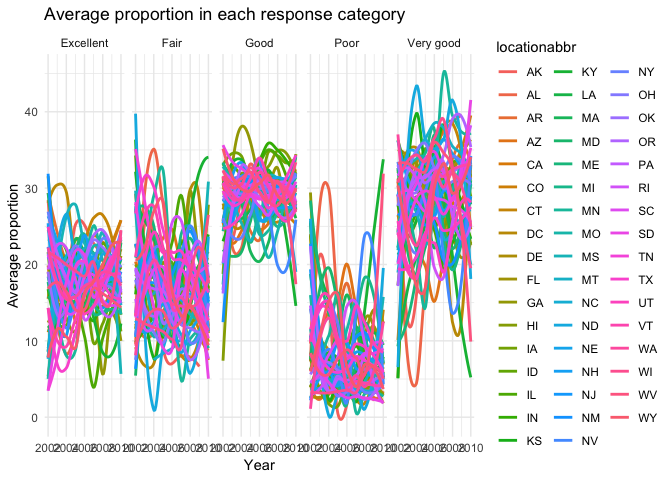
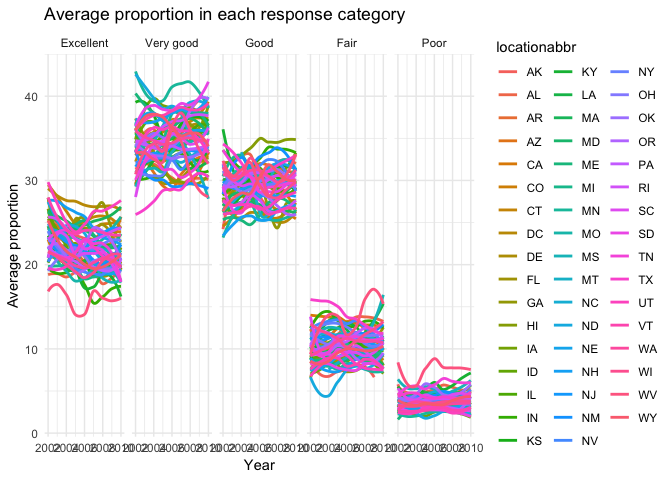
Graph for Problem 2

diff --git a/p8105_hw3_gsl2116.md b/p8105_hw3_gsl2116.md
@@ -9,9 +9,8 @@ Problem 1
 ``` r
 brfss_data = brfss_smart2010 %>% 
   janitor::clean_names() %>% 
-  filter(topic == "Overall Health")
-
-brfss_data$response = factor(c("Excellent", "Very good", "Good", "Fair", "Poor"))
+  filter(topic == "Overall Health") %>% 
+  mutate(response = factor(response, levels = c("Excellent", "Very good", "Good", "Fair", "Poor")))
 ```
 
 **In 2002, which states were observed at 7 locations? **
@@ -20,17 +19,16 @@ brfss_data$response = factor(c("Excellent", "Very good", "Good", "Fair", "Poor")
 brfss_data %>% 
   group_by(year, locationabbr) %>% 
   filter(year == 2002) %>% 
-  summarize(n_locations = n_distinct(locationdesc) == 7) %>% 
-  filter(n_locations == TRUE)
+  summarize(n_locations = n_distinct(locationdesc)) %>% 
+  filter(n_locations == 7) %>% 
+  knitr::kable()
 ```
 
-    ## # A tibble: 3 x 3
-    ## # Groups:   year [1]
-    ##    year locationabbr n_locations
-    ##   <int> <chr>        <lgl>      
-    ## 1  2002 CT           TRUE       
-    ## 2  2002 FL           TRUE       
-    ## 3  2002 NC           TRUE
+|  year| locationabbr |  n\_locations|
+|-----:|:-------------|-------------:|
+|  2002| CT           |             7|
+|  2002| FL           |             7|
+|  2002| NC           |             7|
 
 In 2002, there were 3 states where 7 locations were observed.
 
@@ -40,8 +38,8 @@ In 2002, there were 3 states where 7 locations were observed.
 brfss_data %>%
   group_by(year, locationabbr) %>%
   count(n_locations = n_distinct(locationdesc)) %>% 
-  ggplot(aes(x = year, y = n_locations, color = locationabbr)) + 
-    geom_smooth(se = FALSE, alpha = .5) +
+  ggplot(aes(x = year, y = n_locations)) + 
+    geom_smooth(aes(color = locationabbr), se = FALSE, alpha = .5) +
     labs(
       title = "Number of locations in each state, 2002-2010",
       x = "Year",
@@ -68,11 +66,11 @@ brfss_data %>%
 
 |  year|  mean\_excellent|  sd\_excellent|
 |-----:|----------------:|--------------:|
-|  2002|            26.76|           8.48|
-|  2006|            15.97|          10.03|
-|  2010|            17.30|           8.99|
+|  2002|            24.04|           4.49|
+|  2006|            22.53|           4.00|
+|  2010|            22.70|           3.57|
 
-The mean (standard deviation) of the proportion of “Excellent” responses across locations in NY State was 26.76 (8.48) in 2002, 15.97 (10.03) in 2006, and 17.30 (8.99) in 2010.
+The mean (standard deviation) of the proportion of “Excellent” responses across locations in NY State was 24.04 (4.49) in 2002, 22.53 (4.00) in 2006, and 22.70 (3.57) in 2010.
 
 **Average proportion in each response category, by response and state**
 
@@ -99,6 +97,40 @@ The above graph shows, for each response category, the distribution of state-lev
 Problem 2
 ---------
 
-**Short description of the dataset** This dataset has 1,384,617 observations in 15 variables, with 1384617 rows and 15 columns. There are 21 departments with 134 distinct aisles containing 39123 products. This dataset summarizes the contents of 131209 distinct orders placed.
+**Short description of the dataset**
+This dataset has 1,384,617 observations in 15 variables, with 1384617 rows and 15 columns. There are 21 departments with 134 distinct aisles containing 39123 products. This dataset summarizes the contents of 131209 distinct orders placed by 131209 users.
 
-How many aisles are there, and which aisles are the most items ordered from? Make a plot that shows the number of items ordered in each aisle. Order aisles sensibly, and organize your plot so others can read it. Make a table showing the most popular item in each of the aisles “baking ingredients”, “dog food care”, and “packaged vegetables fruits”. Make a table showing the mean hour of the day at which Pink Lady Apples and Coffee Ice Cream are ordered on each day of the week; format this table for human readers (i.e. produce a 2 x 7 table).
+**How many aisles are there, and which aisles are the most items ordered from?**
+
+``` r
+instacart_data %>%
+  summarize(n_distinct(aisle_id))
+```
+
+    ## # A tibble: 1 x 1
+    ##   `n_distinct(aisle_id)`
+    ##                    <int>
+    ## 1                    134
+
+``` r
+instacart_data %>% 
+  count(aisle) %>% 
+  arrange(desc(n)) %>%
+  top_n(n = 5) %>% 
+  knitr::kable()
+```
+
+    ## Selecting by n
+
+| aisle                         |                                                                                                                                                                 n|
+|:------------------------------|-----------------------------------------------------------------------------------------------------------------------------------------------------------------:|
+| fresh vegetables              |                                                                                                                                                            150609|
+| fresh fruits                  |                                                                                                                                                            150473|
+| packaged vegetables fruits    |                                                                                                                                                             78493|
+| yogurt                        |                                                                                                                                                             55240|
+| packaged cheese               |                                                                                                                                                             41699|
+| There are 134 aisles. The top |  5 aisles where the most items are ordered from are (in order) "Fresh Vegetables", "Fresh Fruits", "Packaged Vegetables Fruits", "Yogurt", and "Packaged Cheese".|
+
+Make a plot that shows the number of items ordered in each aisle. Order aisles sensibly, and organize your plot so others can read it.
+
+Make a table showing the most popular item in each of the aisles “baking ingredients”, “dog food care”, and “packaged vegetables fruits”. Make a table showing the mean hour of the day at which Pink Lady Apples and Coffee Ice Cream are ordered on each day of the week; format this table for human readers (i.e. produce a 2 x 7 table).
